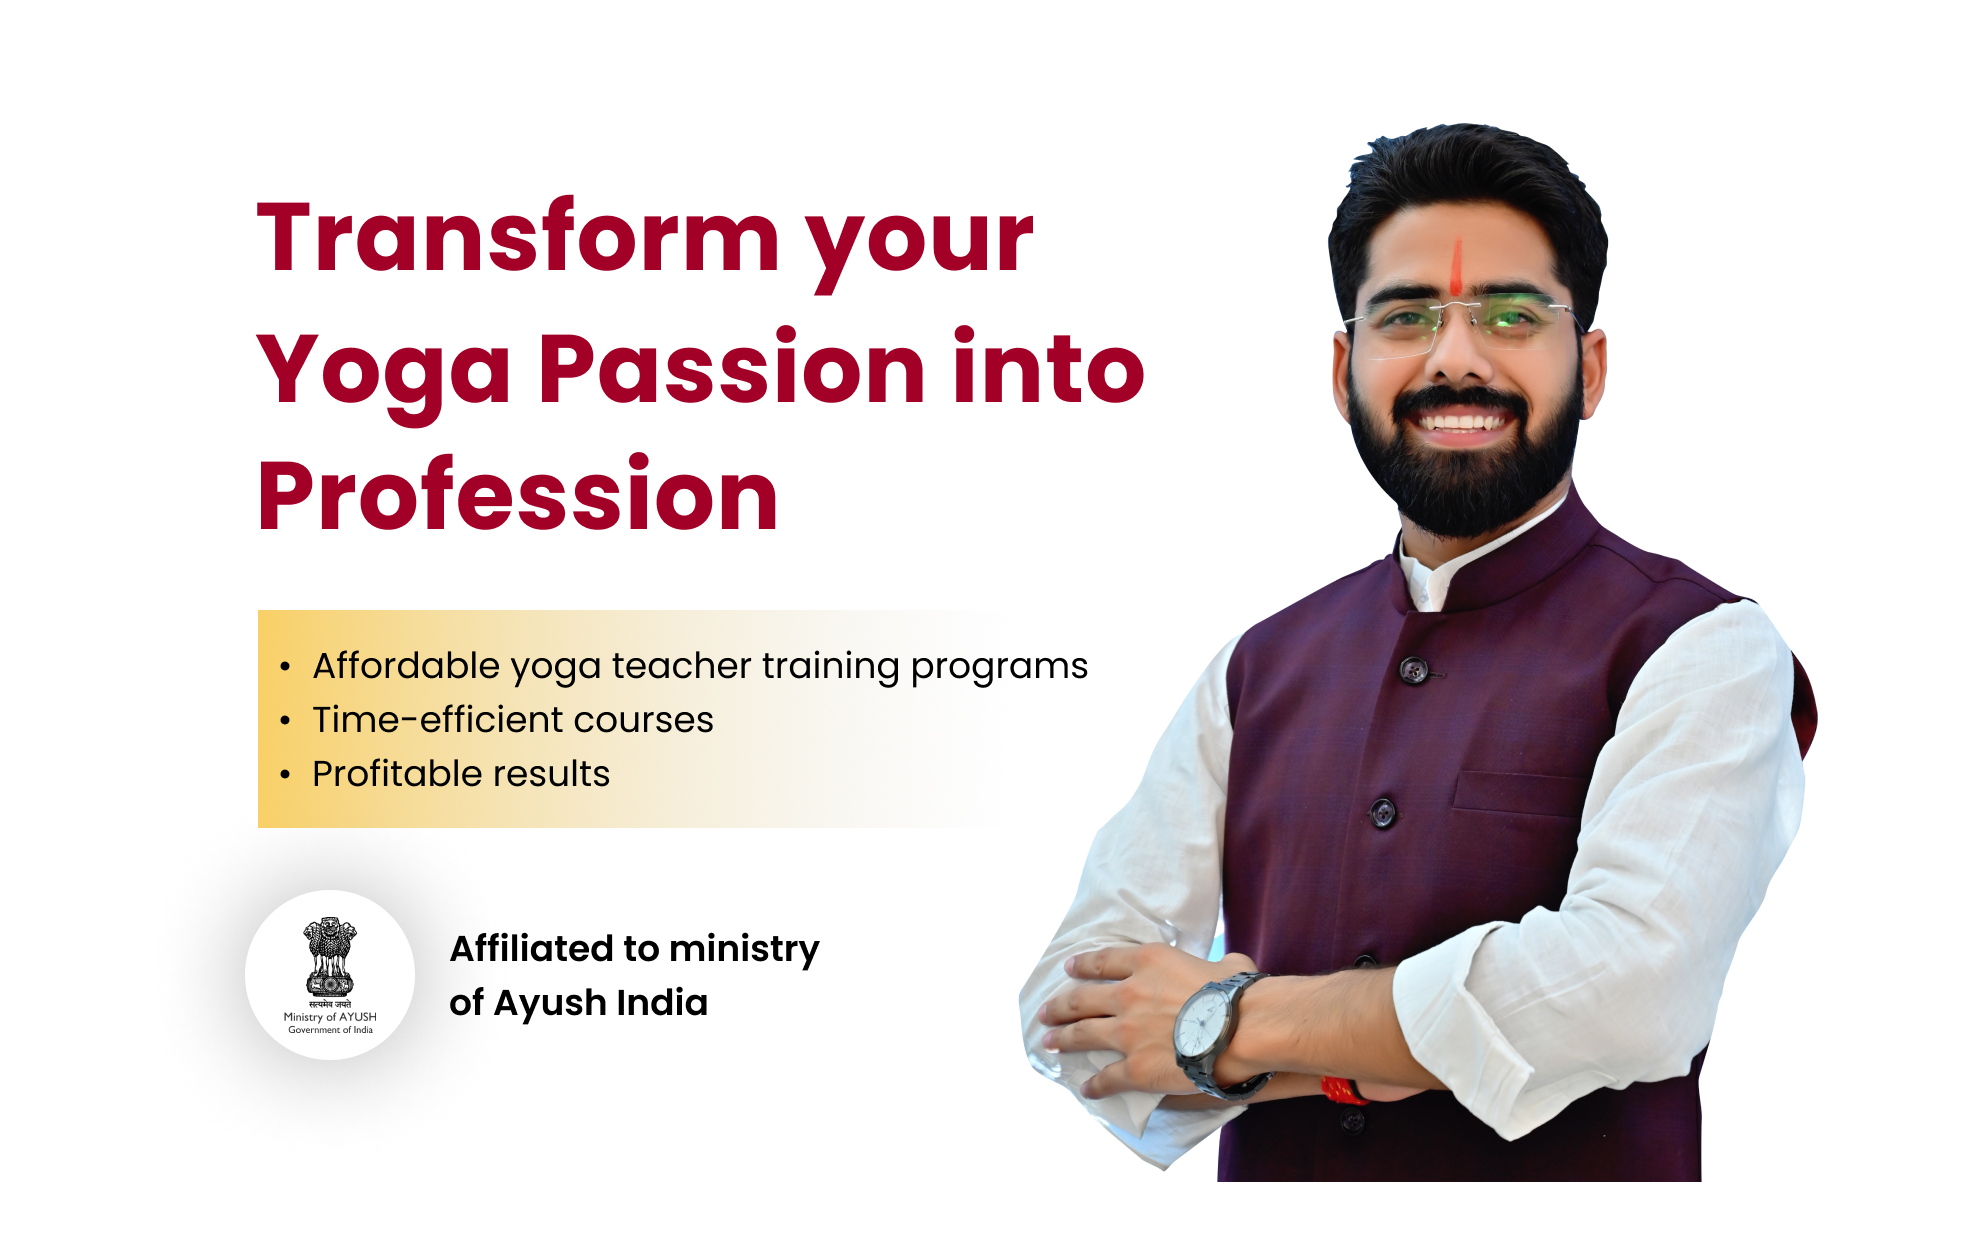
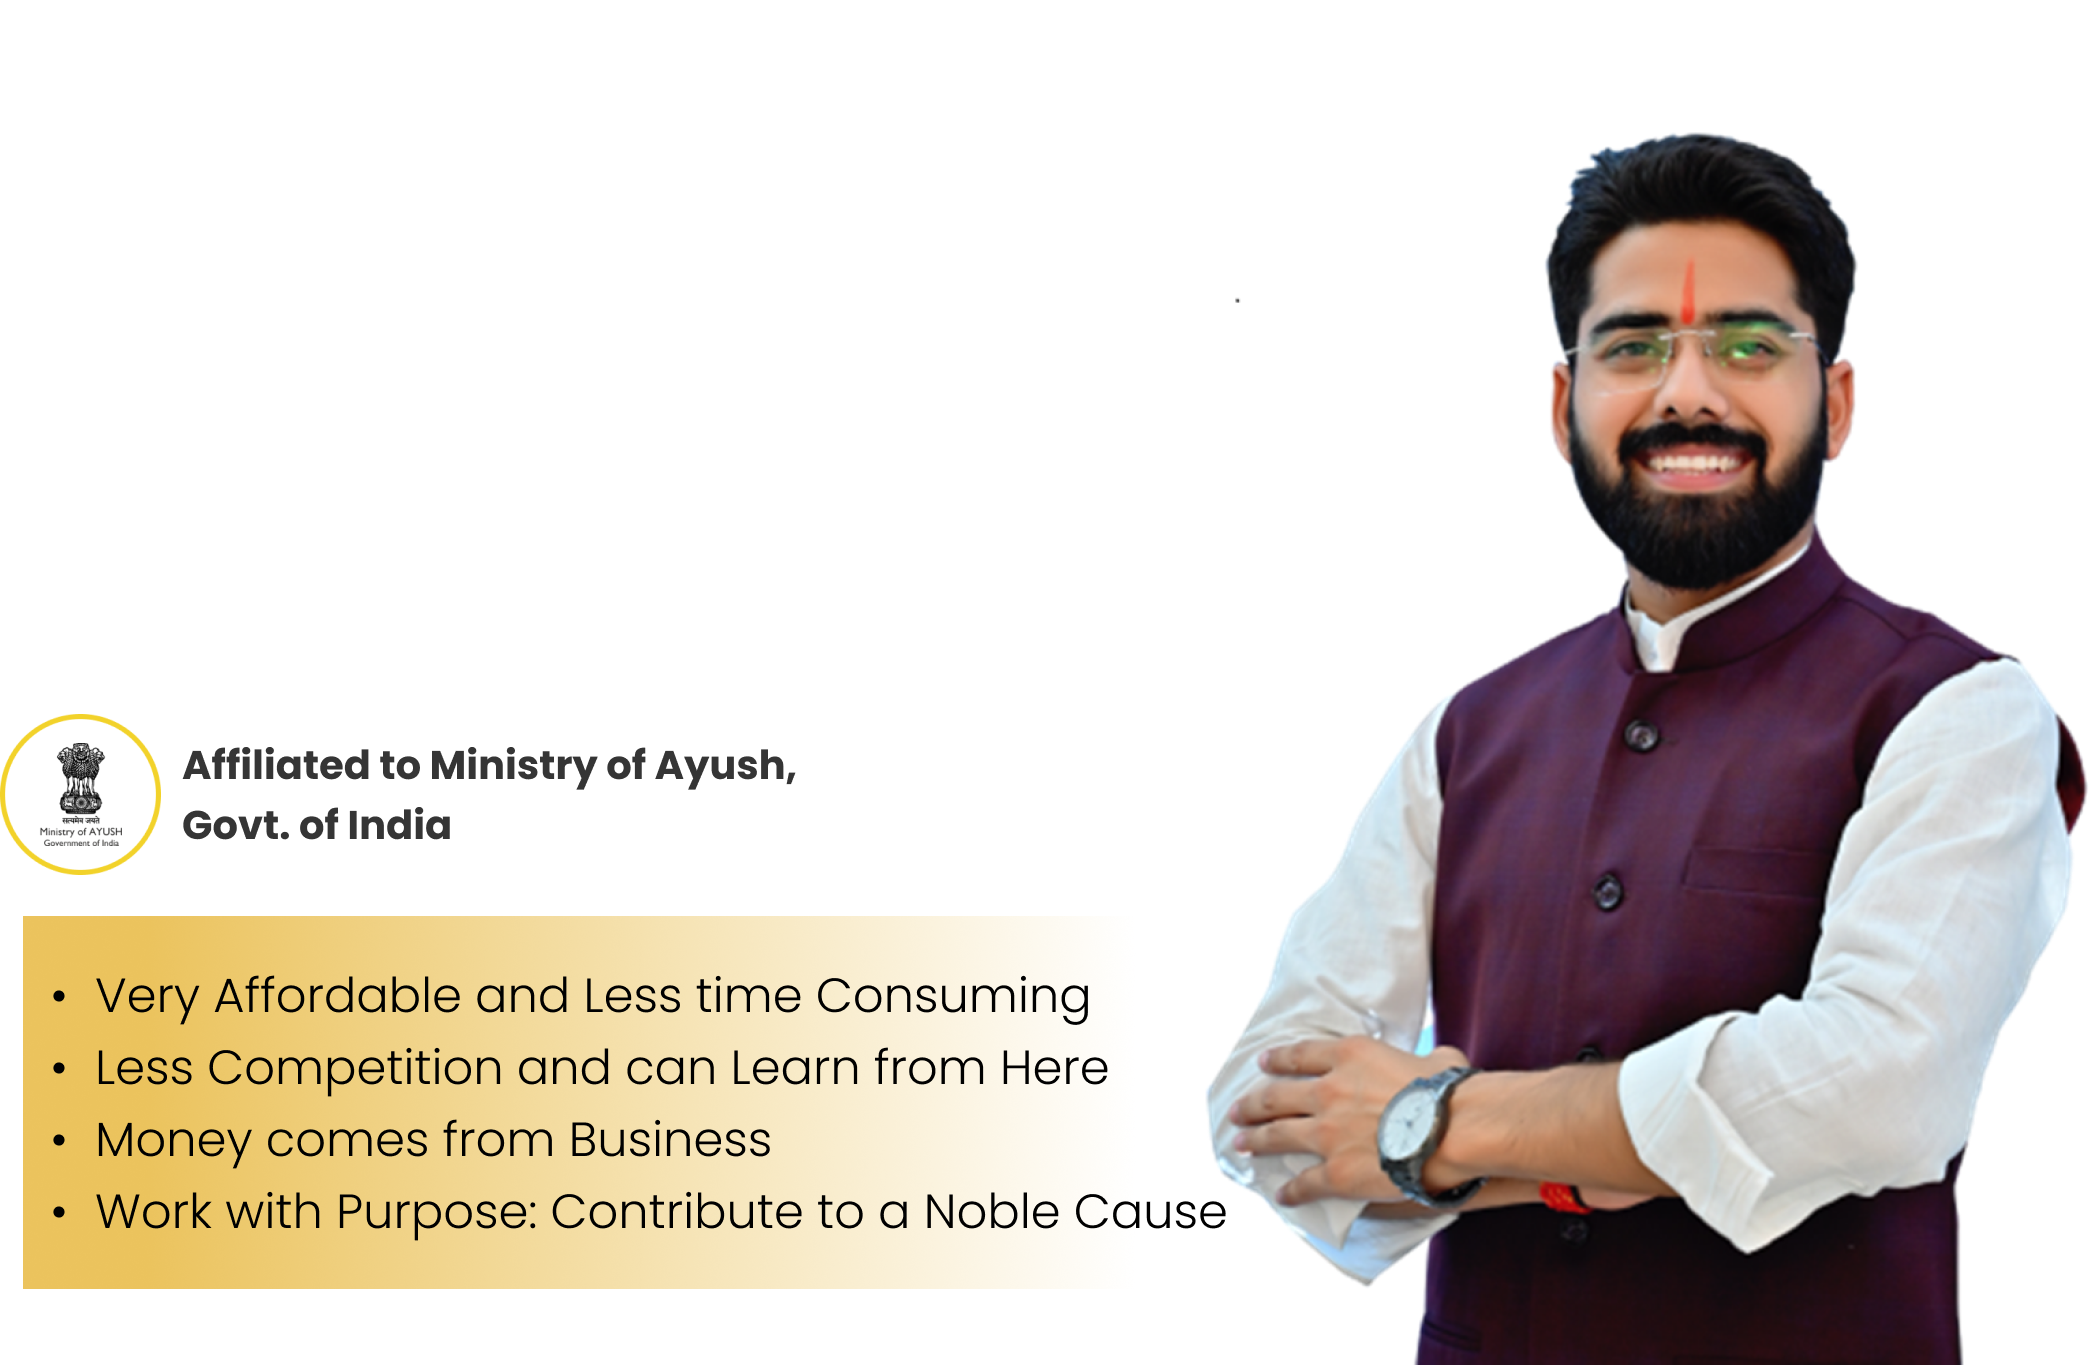
added responsive image on mobile view

diff --git a/index.html b/index.html
@@ -367,9 +367,9 @@
         <!-- Navbar End -->
         <section id="yogkulam-franchise" class="d-flex flex-column justify-content-center align-items-center">
             <div class="container-fluid px-3 px-md-4 px-lg-5">
-                <div class="row g-lg-5 pt-5">
-                    <div class="col-lg-5 col-md-6 col-sm-6 order-md-1 pl-md-0 p-sm-2 order">
-                        <div>
+                <div class="row g-lg-5">
+                    <div class="col-lg-5 col-md-6 col-sm-6 order-md-1 pl-md-0 p-sm-2 order d-none d-sm-block d-md-block ">
+                        <div class="pt-lg-5">
                             <div class="mb-2"></div>
                             <h4 id="mdvti-heading" class="decorative-heading text-sm-center text-light text-md-start">
                                 Transform your <br />Yoga Passion into Profession
@@ -385,7 +385,7 @@
 
                             <div class="d-flex align-items-center">
                                 <img src="img/affliaction-1.png" class="img-fluid px-2" width="60px" alt="Avatar" />
-                                <p class="pl-4 mt-2 text-light">
+                                <p class="pl-4 mt-2 text-light pt-3">
                                     Affiliated to Ministry of Ayush, Govt. of India
                                 </p>
                             </div>
@@ -411,7 +411,7 @@
                             </ul>
                         </div>
                     </div>
-                    <div class="col-lg-4 col-md-6 col-sm-6 order-md-3 order-1 py-4 d-flex justify-content-center"
+                    <div class="col-lg-4 col-md-6 col-sm-6 order-md-3 order-1 mt-auto mb-5 pt-lg-5 d-flex justify-content-center"
                         id="mdvti-form">
                         <form data-aos="zoom-in"
                             class="p-lg-4 p-md-3 p-4 border rounded-3 blurry-nav right-form shadow w-100">
@@ -438,11 +438,15 @@
                             <a class="w-100 btn btn-lg btn-primary" id="otp-btn">Register Now</a>
                         </form>
                     </div>
-
                     <div class="col-md-3 col-sm-6 d-lg-flex d-none order-md-2 order-3 p-0 d-md-none"
                         id="portrait-image">
                         <div class="mt-auto">
                             <img src="img/header-2.png" class="img-fluid" alt="" style="min-height: 30px" />
+                        </div>
+                    </div>
+                    <div class="col-12 d-block d-sm-none order-0 p-0 d-md-none">
+                        <div class="mt-auto">
+                            <img src="img/DSC_0012.png" class="img-fluid" alt="" style="min-height: 170px" />
                         </div>
                     </div>
                 </div>
